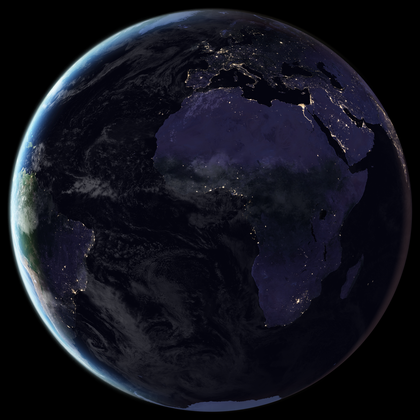
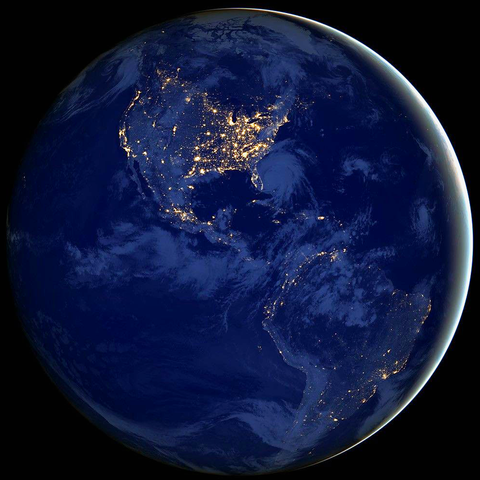
웹 첫화면 지구: 시애틀(북미) 야경 지구로 교체+밝게 보정, 지구 조금 키우고 대기광 강화

diff --git a/index.html b/index.html
@@ -309,9 +309,9 @@
   #cosmos .cn-ring2{position:absolute;inset:-16px;border-radius:50%;border:1px solid rgba(188,210,255,.12)}
   #cosmos .cn-pulse{position:absolute;inset:0;border-radius:50%;border:1px solid rgba(231,180,95,.45);animation:cnpulse 3.2s ease-out infinite}
   @keyframes cnpulse{0%{transform:scale(1);opacity:.55}100%{transform:scale(1.85);opacity:0}}
-  #cosmos .cn-core{position:relative;width:96px;height:96px;border-radius:50%;display:grid;place-items:center;overflow:hidden;
+  #cosmos .cn-core{position:relative;width:106px;height:106px;border-radius:50%;display:grid;place-items:center;overflow:hidden;
     background:#05112a url('images/earth-globe.png') center/cover no-repeat;
-    box-shadow:inset 0 0 10px 2px rgba(150,195,255,.28), 0 0 42px 9px rgba(90,150,255,.34), 0 0 0 1px rgba(165,205,255,.4)}
+    box-shadow:inset 0 0 12px 2px rgba(150,195,255,.32), 0 0 48px 10px rgba(96,160,255,.42), 0 0 0 1px rgba(170,210,255,.45)}
   #cosmos .cn-core .cn-cross{width:38px;height:38px;position:relative;z-index:2;
     filter:drop-shadow(0 0 7px rgba(231,180,95,.95)) drop-shadow(0 0 2px rgba(0,0,0,.55))}
   #cosmos .cn-nucleus:active{transform:translate(-50%,-50%) scale(.94)}
